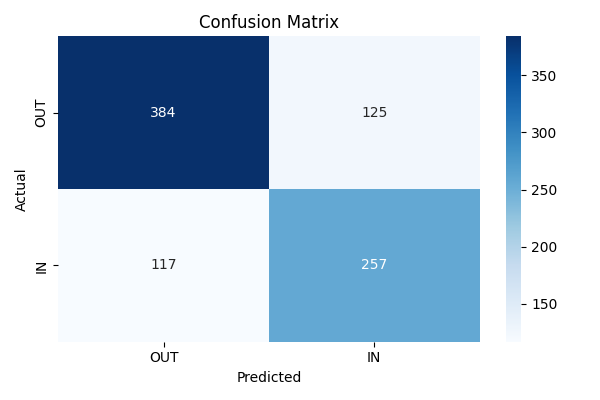
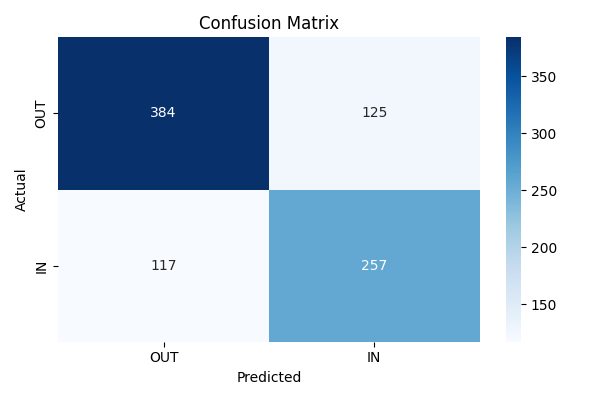
removed shap in code
removed shap in code

diff --git a/src/evaluation.py b/src/evaluation.py
@@ -25,7 +25,7 @@ from sklearn.metrics import (
 def evaluate_model(
     model,
     test_data: pd.DataFrame,
-    report_path: str = "reports/metrics.txt",
+    report_path: str = "reports/metrics.txt"
     # shap_path: str = "reports/shap_summary.html"
 ):
     """
